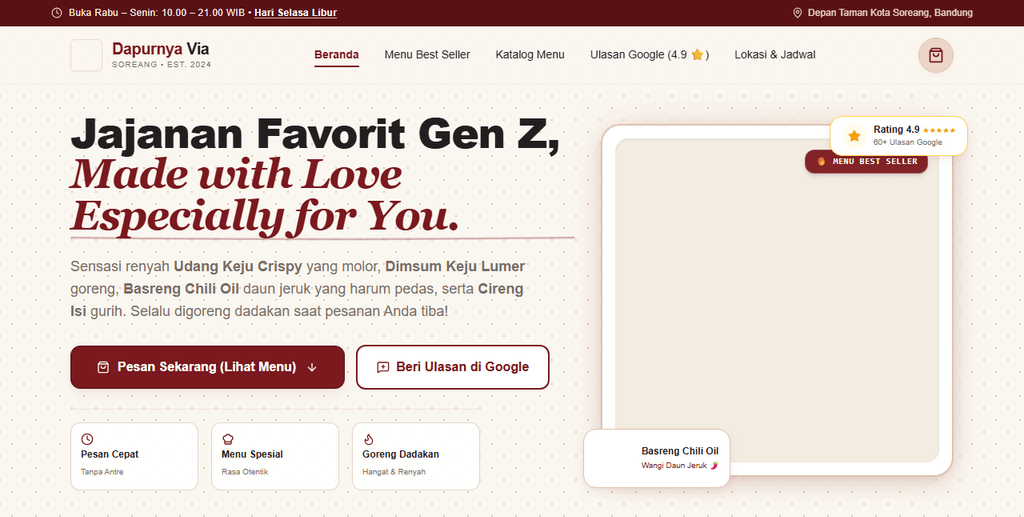
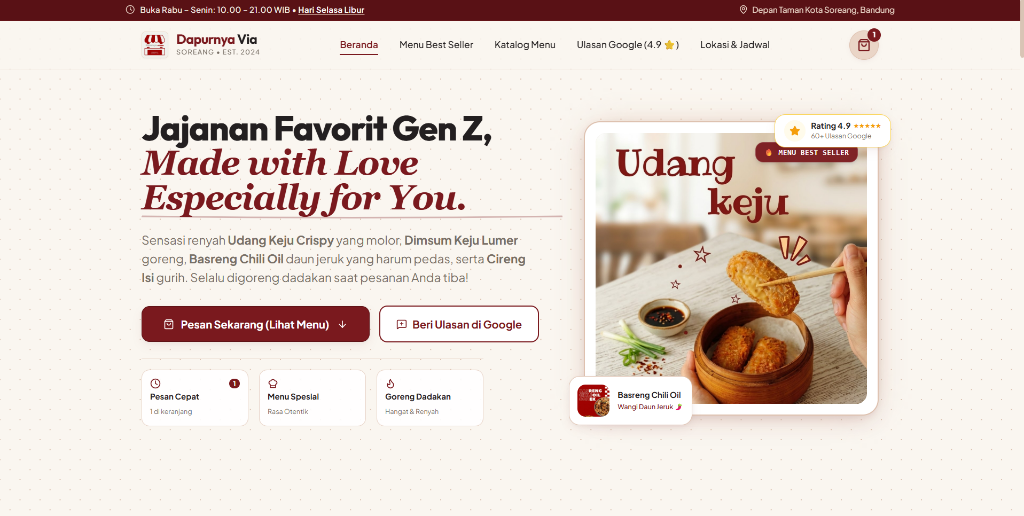
feat(works): update Dapurnya Via screenshot and brand title

diff --git a/src/data/projectsData.js b/src/data/projectsData.js
@@ -167,9 +167,9 @@ export const allProjectsData = [
     id: 'project-6',
     slug: 'dapurnyaviaaa',
     number: '06',
-    title: 'Dapurnya Viaaa',
+    title: 'Dapurnya Via',
     category: 'LANDING PAGE',
-    client: 'Dapurnya Viaaa Soreang',
+    client: 'Dapurnya Via Soreang',
     role: 'Frontend Specialist & UI Designer',
     started: 'March 2025',
     timeline: 'March 2025 – Present',
